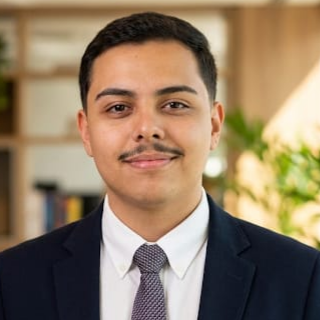
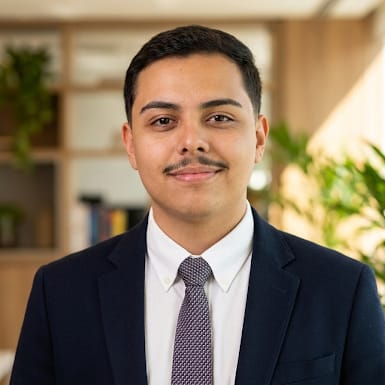
Remove links quebrados, CSS morto e corrige foto de perfil esticada
- Atualiza links dos projetos Pixel Art e Gerador de Sombras, que
  agora apontam para index.html em vez de index001.html
- Remove variaveis CSS nao utilizadas (--color-fundo1..5)
- Move o bloco <style> inline do <head> para styles.css, mantendo
  a mesma ordem de cascata
- Substitui a foto de perfil, que estava esticada horizontalmente,
  por um recorte quadrado centralizado sem distorcao

diff --git a/index.html b/index.html
@@ -26,14 +26,6 @@
   <link rel="stylesheet" href="./style/styles.css">
 
   <title>Pedro Henrique | Desenvolvedor Front-End | Portfólio Profissional</title>
-
-  <style>
-    .section-subtitle h2 span.block-text { display: inline-block; font-size: 3rem; }
-    .section-subtitle h2 span.block-text:nth-child(2) span { padding: 3px 5px; border-radius: 4px; color: var(--color-black); background: var(--color-white); }
-    .box-about h3 span.highlight-pink { display: inline-block; width: fit-content; padding: 2px 4px; border-radius: 4px; color: var(--color-black); background: var(--color-pink); }
-    .box-about h4 span.highlight-blue { display: inline; padding: 2px 4px; color: var(--color-blue); font-weight: bold; font-size: 1.75rem; }
-    .ctas h2 { padding: 4rem; margin: 0rem; font-size: 3.5rem; color: var(--color-white); background: var(--color-black); font-weight: normal; }
-  </style>
 </head>
 
 <body>
@@ -56,33 +48,33 @@
     <section id="person">
       <div class="person-content">
         <div class="person-name">
-          <h1>Olá, <span></span></h1>
-          <h1>Meu nome é <span></span></h1>
-          <h1>Pedro Henrique <span></span></h1>
+          <h2>Olá, <span></span></h2>
+          <h2>Meu nome é <span></span></h2>
+          <h2>Pedro Henrique <span></span></h2>
         </div>
 
         <div class="stacks-content">
           <h3>Techs:</h3>
           <div class="stacks">
-            <ul><li><div data="HTML"><img src="./img-svg/html.svg" alt="Ícone do HTML5"></div></li></ul>
-            <ul><li><div data="CSS"><img src="./img-svg/css.svg" alt="Ícone do CSS3"></div></li></ul>
-            <ul><li><div data="JS"><img src="./img-svg/js.svg" alt="Ícone do JavaScript"></div></li></ul>
-            <ul><li><div data="REACT"><img src="./img-svg/react.svg" alt="Ícone do React"></div></li></ul>
-            <ul><li><div data="TJ"><img src="./img-svg/typescript.svg" alt="Ícone do TypeScript"></div></li></ul>
+            <ul><li><div data="HTML"><img src="./img-svg/html.svg" alt="Ícone do HTML5" width="40" height="40"></div></li></ul>
+            <ul><li><div data="CSS"><img src="./img-svg/css.svg" alt="Ícone do CSS3" width="40" height="40"></div></li></ul>
+            <ul><li><div data="JS"><img src="./img-svg/js.svg" alt="Ícone do JavaScript" width="40" height="40"></div></li></ul>
+            <ul><li><div data="REACT"><img src="./img-svg/react.svg" alt="Ícone do React" width="40" height="38"></div></li></ul>
+            <ul><li><div data="TJ"><img src="./img-svg/typescript.svg" alt="Ícone do TypeScript" width="40" height="40"></div></li></ul>
           </div>
         </div>
       </div>
 
       <div class="person-background">
         <div class="wrapper-profile-photo">
-          <img class="profile-photo" src="./imagens/foto-pedro.png" alt="Foto de perfil de Pedro Henrique">
+          <img class="profile-photo" src="./imagens/foto-pedro.png" alt="Foto de perfil de Pedro Henrique" width="385" height="385">
         </div>
         <div class="links">
           <a href="https://github.com/pedrohenriquesouzalima" target="_blank" rel="noopener noreferrer" aria-label="Acessar GitHub de Pedro Henrique">
-            <img src="./img-svg/logo-github.svg" alt="Ícone do GitHub">
+            <img src="./img-svg/logo-github.svg" alt="Ícone do GitHub" width="40" height="40">
           </a>
           <a href="https://www.linkedin.com/in/pedro-henrique-souza-lima-6a2134298/" target="_blank" rel="noopener noreferrer" aria-label="Acessar LinkedIn de Pedro Henrique">
-            <img src="./img-svg/logo-linkedin.svg" alt="Ícone do LinkedIn">
+            <img src="./img-svg/logo-linkedin.svg" alt="Ícone do LinkedIn" width="40" height="40">
           </a>
         </div>
       </div>
@@ -91,7 +83,7 @@
     <section id="about">
       <div class="background-about">
         <div class="img-wrapper">
-          <img src="./imagens/img.2.jpg" alt="Imagem de notebook com código aberto exibindo um projeto">
+          <img src="./imagens/img.2.jpg" alt="Imagem de notebook com código aberto exibindo um projeto" width="1600" height="1280" loading="lazy" decoding="async">
         </div>
       </div>
 
@@ -136,7 +128,7 @@
           <div class="ancora-content">
             <div class="image-project">
               <a href="https://pedrohenriquesouzalima.github.io/projeto-canil/" target="_blank" rel="noopener noreferrer">
-                <img src="./imagens/img-canil.png" alt="Captura de tela do projeto CanilControl">
+                <img src="./imagens/img-canil.png" alt="Captura de tela do projeto CanilControl" width="1090" height="860" loading="lazy" decoding="async">
               </a>
             </div>
             <div class="ancora-text">
@@ -158,29 +150,29 @@
         <div class="projetos-grid">
           <article class="card-project">
             <div class="image-project">
-              <a href="https://pedrohenriquesouzalima.github.io/projeto-pixel-art/index001.html" target="_blank" rel="noopener noreferrer">
-                <img src="./imagens/img-gpa.png" alt="Captura de tela do projeto Gerador de Pixel Art">
+              <a href="https://pedrohenriquesouzalima.github.io/projeto-pixel-art/" target="_blank" rel="noopener noreferrer">
+                <img src="./imagens/img-gpa.png" alt="Captura de tela do projeto Gerador de Pixel Art" width="729" height="497" loading="lazy" decoding="async">
               </a>
             </div>
             <span>Gerador de Pixel Art</span>
             <p>Esse projeto gera uma tela a partir de especificações adicionadas e permite que o usuário faça desenhos interativos.</p>
             <div class="cta-project">
               <a href="https://github.com/pedrohenriquesouzalima/projeto-pixel-art" target="_blank" rel="noopener noreferrer">Código <i class="fa-brands fa-github"></i></a>
-              <a href="https://pedrohenriquesouzalima.github.io/projeto-pixel-art/index001.html" target="_blank" rel="noopener noreferrer">Site <i class="fa-solid fa-arrow-up-right-from-square"></i></a>
+              <a href="https://pedrohenriquesouzalima.github.io/projeto-pixel-art/" target="_blank" rel="noopener noreferrer">Site <i class="fa-solid fa-arrow-up-right-from-square"></i></a>
             </div>
           </article>
 
           <article class="card-project">
             <div class="image-project">
-              <a href="https://pedrohenriquesouzalima.github.io/projeto-gerador-de-sombra/index001.html" target="_blank" rel="noopener noreferrer">
-                <img src="./imagens/img-gdsbr.png" alt="Captura de tela do projeto Gerador de Sombras">
+              <a href="https://pedrohenriquesouzalima.github.io/projeto-gerador-de-sombra/" target="_blank" rel="noopener noreferrer">
+                <img src="./imagens/img-gdsbr.png" alt="Captura de tela do projeto Gerador de Sombras" width="720" height="800" loading="lazy" decoding="async">
               </a>
             </div>
             <span>Gerador de Sombras</span>
             <p>Esse projeto gera sombras CSS (box-shadow) a partir das especificações adicionadas e exibe o código para copiar.</p>
             <div class="cta-project">
               <a href="https://github.com/pedrohenriquesouzalima/projeto-gerador-de-sombra" target="_blank" rel="noopener noreferrer">Código <i class="fa-brands fa-github"></i></a>
-              <a href="https://pedrohenriquesouzalima.github.io/projeto-gerador-de-sombra/index001.html" target="_blank" rel="noopener noreferrer">Site <i class="fa-solid fa-arrow-up-right-from-square"></i></a>
+              <a href="https://pedrohenriquesouzalima.github.io/projeto-gerador-de-sombra/" target="_blank" rel="noopener noreferrer">Site <i class="fa-solid fa-arrow-up-right-from-square"></i></a>
             </div>
           </article>
         </div>
@@ -205,6 +197,10 @@
           <div class="field">
             <label for="reply_to">Email</label>
             <input type="email" name="reply_to" id="reply_to" required>
+          </div>
+          <div class="field field-honeypot" aria-hidden="true">
+            <label for="website">Não preencha este campo</label>
+            <input type="text" name="website" id="website" tabindex="-1" autocomplete="off">
           </div>
           <input class="button-cts" type="submit" id="button" value="Enviar Email">
         </form>

diff --git a/style/styles.css b/style/styles.css
@@ -9,11 +9,6 @@
   --color-blue: #073fcc;
   --color-black: #0c0c0c;
   --color-purple: #5f01ac;
-  --color-fundo1: #0C1370;
-  --color-fundo2: #636DF2; 
-  --color-fundo3: #1A29F0;
-  --color-fundo4: #2E3270;
-  --color-fundo5: #151FBC;
 }
 
 * { margin: 0; padding: 0; box-sizing: border-box; }
@@ -37,14 +32,14 @@ body { font-family: 'Poppins', sans-serif; background: var(--color-black); color
 /* --- HERO SECTION --- */
 #person { display: flex; flex-direction: column; min-height: 100vh; padding-top: 10rem; }
 .person-content { display: flex; flex-direction: column; align-items: center; text-align: center; padding: 2rem; }
-.person-name h1 { font-size: 3.5rem; line-height: 4.5rem; color: transparent; position: relative; width: fit-content; margin: 0 auto; animation: written_text 0.5s ease forwards; }
-.person-name h1:nth-child(1) { animation-delay: 1s; }
-.person-name h1:nth-child(2) { animation-delay: 2s; }
-.person-name h1:nth-child(3) { animation: written_text_name 0.5s ease forwards; animation-delay: 3s; }
-.person-name h1 span { position: absolute; top: 0; left: 0; width: 0px; height: 100%; background: var(--color-pink); animation: written_text_box 1s ease; }
-.person-name h1:nth-child(1) span { animation-delay: 0.5s; }
-.person-name h1:nth-child(2) span { animation-delay: 1.5s; }
-.person-name h1:nth-child(3) span { animation-delay: 2.5s; }
+.person-name h2 { font-size: 3.5rem; line-height: 4.5rem; color: transparent; position: relative; width: fit-content; margin: 0 auto; animation: written_text 0.5s ease forwards; }
+.person-name h2:nth-child(1) { animation-delay: 1s; }
+.person-name h2:nth-child(2) { animation-delay: 2s; }
+.person-name h2:nth-child(3) { animation: written_text_name 0.5s ease forwards; animation-delay: 3s; }
+.person-name h2 span { position: absolute; top: 0; left: 0; width: 0px; height: 100%; background: var(--color-pink); animation: written_text_box 1s ease; }
+.person-name h2:nth-child(1) span { animation-delay: 0.5s; }
+.person-name h2:nth-child(2) span { animation-delay: 1.5s; }
+.person-name h2:nth-child(3) span { animation-delay: 2.5s; }
 
 .stacks ul { list-style: none; }
 .stacks-content { margin-top: 4rem; display: flex; flex-direction: column; align-items: center; }
@@ -110,6 +105,7 @@ body { font-family: 'Poppins', sans-serif; background: var(--color-black); color
 .ctas h2 { font-size: 2.8rem; margin-bottom: 3rem; text-align: center; }
 #form { width: 100%; max-width: 500px; display: flex; flex-direction: column; gap: 2rem; }
 .field label { font-size: 1.4rem; margin-bottom: 0.5rem; display: block; color: #ddd; }
+.field-honeypot { position: absolute; left: -9999px; top: -9999px; }
 .field input, .field textarea { width: 100%; padding: 1.2rem; font-size: 1.6rem; border-radius: 8px; border: none; outline: none; font-family: 'Poppins', sans-serif; }
 .field textarea { resize: vertical; }
 input[type="submit"] { background: var(--color-purple); color: var(--color-white); font-size: 1.6rem; font-weight: 700; padding: 1.5rem; border: none; border-radius: 8px; cursor: pointer; transition: opacity 0.3s; }
@@ -134,7 +130,7 @@ input[type="submit"]:hover { opacity: 0.8; }
   
   #person { flex-direction: row; padding-top: 0; }
   .person-content { width: 50%; justify-content: center; align-items: flex-start; text-align: left; padding: 0 5%; }
-  .person-name h1 { margin: 0; font-size: 4.5rem; line-height: 6rem; }
+  .person-name h2 { margin: 0; font-size: 4.5rem; line-height: 6rem; }
   .stacks-content { align-items: flex-start; }
   .person-background { width: 50%; justify-content: center; }
   .person-background::after { content: ""; position: absolute; top: 0; left: 0; height: 100%; width: 100%; background: linear-gradient(90deg, transparent 30%, var(--color-black)), linear-gradient(180deg, transparent 30%, var(--color-black)); opacity: 0.7; z-index: -1; }
@@ -165,3 +161,12 @@ input[type="submit"]:hover { opacity: 0.8; }
   #form { width: 600px; }
   .field input, .field textarea { font-size: 1.8rem; }
 }
+
+/* =======================================
+   5. AJUSTES FINOS (SOBRESCRITAS PONTUAIS)
+======================================= */
+.section-subtitle h2 span.block-text { display: inline-block; font-size: 3rem; }
+.section-subtitle h2 span.block-text:nth-child(2) span { padding: 3px 5px; border-radius: 4px; color: var(--color-black); background: var(--color-white); }
+.box-about h3 span.highlight-pink { display: inline-block; width: fit-content; padding: 2px 4px; border-radius: 4px; color: var(--color-black); background: var(--color-pink); }
+.box-about h4 span.highlight-blue { display: inline; padding: 2px 4px; color: var(--color-blue); font-weight: bold; font-size: 1.75rem; }
+.ctas h2 { padding: 4rem; margin: 0rem; font-size: 3.5rem; color: var(--color-white); background: var(--color-black); font-weight: normal; }

diff --git a/js/scripts.js b/js/scripts.js
@@ -27,6 +27,13 @@ document.addEventListener('DOMContentLoaded', () => {
     form.addEventListener('submit', function (event) {
       event.preventDefault();
 
+      // Honeypot: campo invisível que só um bot preencheria. Se vier preenchido, descarta em silêncio.
+      const honeypot = form.querySelector('#website');
+      if (honeypot && honeypot.value.trim() !== '') {
+        form.reset();
+        return;
+      }
+
       // Guarda o texto original e bloqueia o botão para evitar duplos cliques
       const originalBtnText = btn.value;
       btn.value = 'Enviando...';
